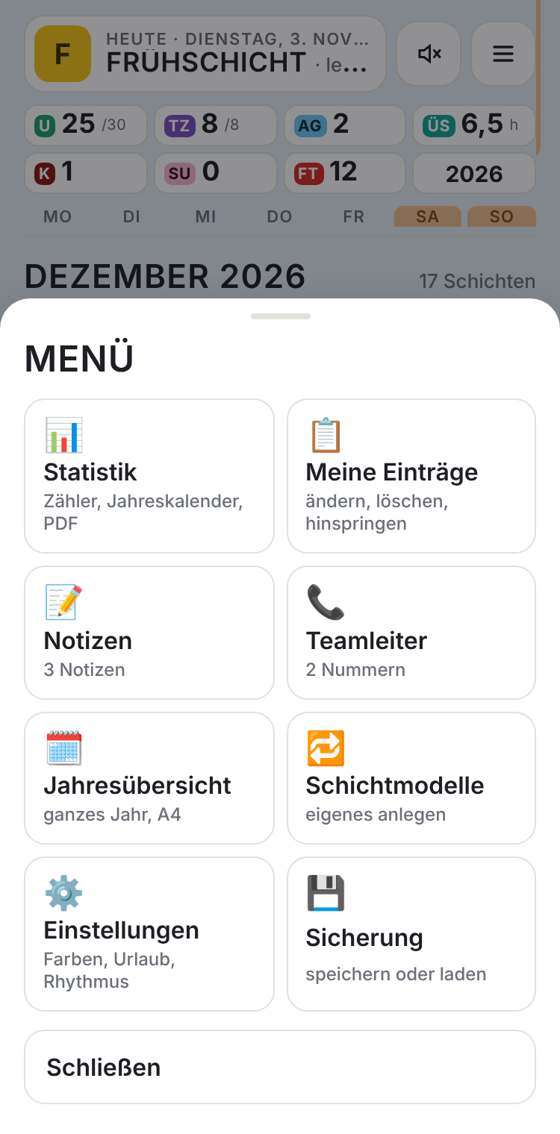
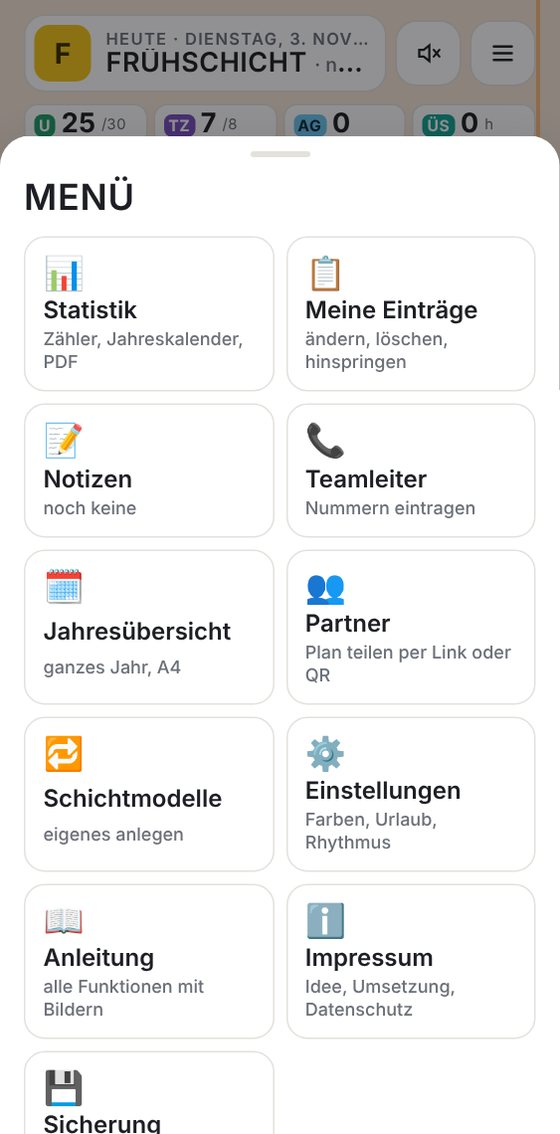
Anleitung: Partner-Funktion mit drei Beispielbildern, Menü-Bild aktualisiert
Claude-Session: https://claude.ai/code/session_01UYarYwaQ4b7eDEgu1BrBR4

diff --git a/index.html b/index.html
@@ -1908,7 +1908,7 @@ var qrcode=function(){var t=function(t,r){var e=t,n=g[r],o=null,i=0,a=null,u=[],
     ["feiertage","Feiertage und besondere Tage","feiertage",
      "Alle Feiertage in Bayern sowie Heiligabend und Silvester sind <b>rot und frei</b>, mit eigenem Symbol. Unter jedem Monat stehen die Feiertage und besonderen Tage wie Nikolaus oder Muttertag. 🕑 markiert die Zeitumstellung, 14 Tage vorher erscheint oben ein Hinweis."],
     ["menue","Das Menü ☰","menue",
-     "Über ☰ oben rechts erreichst du alle Seiten: Statistik, Meine Einträge, Notizen, Teamleiter, Jahresübersicht, Schichtmodelle, Einstellungen, Sicherung und diese Anleitung."],
+     "Über ☰ oben rechts erreichst du alle Seiten: Statistik, Meine Einträge, Notizen, Teamleiter, Jahresübersicht, Partner, Schichtmodelle, Einstellungen, Sicherung und diese Anleitung."],
     ["statistik","Statistik","statistik",
      "Alle Zähler eines Jahres auf einen Blick, dazu deine Überstunden pro Monat als Balken. Mit ‹ › wechselst du das Jahr."],
     ["statistik2","Jahreskalender und Speichern","statistik2",
@@ -1929,6 +1929,12 @@ var qrcode=function(){var t=function(t,r){var e=t,n=g[r],o=null,i=0,a=null,u=[],
      "Tippe auf ein Farbfeld, um die Farbe für Früh, Spät, Nacht, Urlaub, TZ, Ausgleich, Krank, Sonderurlaub, Überstunden, Feiertage oder das Wochenend-Band zu ändern. „Farben zurücksetzen“ stellt alles auf Standard."],
     ["sicherung","Sicherung","sicherung",
      "Deine Einträge liegen nur auf diesem Handy. Speichere ab und zu eine <b>Sicherung</b>. Auf einem neuen Handy spielst du sie mit „Sicherung laden“ wieder ein."],
+    ["partner","Plan mit Partner teilen","partner",
+     "Unter ☰ → <b>👥 Partner</b> trägst du einmal deinen Namen ein. Dann schickst du deinen Plan mit <b>💬 Per WhatsApp senden</b>, über <b>Teilen</b> oder zeigst einen <b>🔳 QR-Code</b>, den dein Partner mit der Kamera scannt. Geteilt werden Schichten, Urlaub, TZ, Ausgleich und Sonderurlaub. <b>Krankheitstage, Notizen und Überstunden bleiben privat.</b> Hast du etwas geändert, schickst du einfach noch einmal den Link."],
+    ["partner2","Plan empfangen","partner2",
+     "Dein Partner tippt auf den Link oder scannt den QR-Code und wählt <b>Speichern und ansehen</b>. Sein eigener Plan bleibt unverändert. <b>iPhone:</b> Wird die App vom Home-Bildschirm benutzt, den Link in WhatsApp lange drücken, „Kopieren“ wählen und in der App unter ☰ → Partner → <b>Link übernehmen</b> einfügen."],
+    ["partner3","Partner-Plan ansehen","partner3",
+     "Oben erscheint eine blaue Leiste <b>👀 Plan von …</b>. Der Plan lässt sich nur ansehen, nicht ändern. Mit <b>Zurück zu meinem Plan</b> kommst du zu deinem Kalender. Später öffnest du ihn wieder über ☰ → Partner → <b>Ansehen</b>. Auch mehrere Pläne, zum Beispiel von Kollegen, sind möglich."],
     ["sound","Animation und Sound",null,
      "Der Hintergrund wechselt mit der Jahreszeit: Schnee, Blüten, Sonne, Laub und im Herbst ab und zu ein Gewitter. Figuren wie Enten, Osterhase, Weihnachtsmann oder Laternen passen zum Monat. Antippen lässt kleine Wirbel aufsteigen. Mit dem <b>Lautsprecher-Knopf</b> schaltest du Naturgeräusche ein. An Feiertagen gibt es eigene Klänge, wenn du den Tag antippst oder der Tag heute ist. Vom 20. bis 31.12. laufen Weihnachtslieder, an Silvester startet ein Feuerwerk, wenn der 31.12. in der Bildschirmmitte steht."],
     ["impressum","Impressum",null,"Unter ☰ Menü → Impressum steht, wer die App erdacht und gebaut hat, und wie mit deinen Daten umgegangen wird."],

diff --git a/src/schichtplan.html b/src/schichtplan.html
@@ -1893,7 +1893,7 @@ var qrcode=function(){var t=function(t,r){var e=t,n=g[r],o=null,i=0,a=null,u=[],
     ["feiertage","Feiertage und besondere Tage","feiertage",
      "Alle Feiertage in Bayern sowie Heiligabend und Silvester sind <b>rot und frei</b>, mit eigenem Symbol. Unter jedem Monat stehen die Feiertage und besonderen Tage wie Nikolaus oder Muttertag. 🕑 markiert die Zeitumstellung, 14 Tage vorher erscheint oben ein Hinweis."],
     ["menue","Das Menü ☰","menue",
-     "Über ☰ oben rechts erreichst du alle Seiten: Statistik, Meine Einträge, Notizen, Teamleiter, Jahresübersicht, Schichtmodelle, Einstellungen, Sicherung und diese Anleitung."],
+     "Über ☰ oben rechts erreichst du alle Seiten: Statistik, Meine Einträge, Notizen, Teamleiter, Jahresübersicht, Partner, Schichtmodelle, Einstellungen, Sicherung und diese Anleitung."],
     ["statistik","Statistik","statistik",
      "Alle Zähler eines Jahres auf einen Blick, dazu deine Überstunden pro Monat als Balken. Mit ‹ › wechselst du das Jahr."],
     ["statistik2","Jahreskalender und Speichern","statistik2",
@@ -1914,6 +1914,12 @@ var qrcode=function(){var t=function(t,r){var e=t,n=g[r],o=null,i=0,a=null,u=[],
      "Tippe auf ein Farbfeld, um die Farbe für Früh, Spät, Nacht, Urlaub, TZ, Ausgleich, Krank, Sonderurlaub, Überstunden, Feiertage oder das Wochenend-Band zu ändern. „Farben zurücksetzen“ stellt alles auf Standard."],
     ["sicherung","Sicherung","sicherung",
      "Deine Einträge liegen nur auf diesem Handy. Speichere ab und zu eine <b>Sicherung</b>. Auf einem neuen Handy spielst du sie mit „Sicherung laden“ wieder ein."],
+    ["partner","Plan mit Partner teilen","partner",
+     "Unter ☰ → <b>👥 Partner</b> trägst du einmal deinen Namen ein. Dann schickst du deinen Plan mit <b>💬 Per WhatsApp senden</b>, über <b>Teilen</b> oder zeigst einen <b>🔳 QR-Code</b>, den dein Partner mit der Kamera scannt. Geteilt werden Schichten, Urlaub, TZ, Ausgleich und Sonderurlaub. <b>Krankheitstage, Notizen und Überstunden bleiben privat.</b> Hast du etwas geändert, schickst du einfach noch einmal den Link."],
+    ["partner2","Plan empfangen","partner2",
+     "Dein Partner tippt auf den Link oder scannt den QR-Code und wählt <b>Speichern und ansehen</b>. Sein eigener Plan bleibt unverändert. <b>iPhone:</b> Wird die App vom Home-Bildschirm benutzt, den Link in WhatsApp lange drücken, „Kopieren“ wählen und in der App unter ☰ → Partner → <b>Link übernehmen</b> einfügen."],
+    ["partner3","Partner-Plan ansehen","partner3",
+     "Oben erscheint eine blaue Leiste <b>👀 Plan von …</b>. Der Plan lässt sich nur ansehen, nicht ändern. Mit <b>Zurück zu meinem Plan</b> kommst du zu deinem Kalender. Später öffnest du ihn wieder über ☰ → Partner → <b>Ansehen</b>. Auch mehrere Pläne, zum Beispiel von Kollegen, sind möglich."],
     ["sound","Animation und Sound",null,
      "Der Hintergrund wechselt mit der Jahreszeit: Schnee, Blüten, Sonne, Laub und im Herbst ab und zu ein Gewitter. Figuren wie Enten, Osterhase, Weihnachtsmann oder Laternen passen zum Monat. Antippen lässt kleine Wirbel aufsteigen. Mit dem <b>Lautsprecher-Knopf</b> schaltest du Naturgeräusche ein. An Feiertagen gibt es eigene Klänge, wenn du den Tag antippst oder der Tag heute ist. Vom 20. bis 31.12. laufen Weihnachtslieder, an Silvester startet ein Feuerwerk, wenn der 31.12. in der Bildschirmmitte steht."],
     ["impressum","Impressum",null,"Unter ☰ Menü → Impressum steht, wer die App erdacht und gebaut hat, und wie mit deinen Daten umgegangen wird."],

diff --git a/sw.js b/sw.js
@@ -1,5 +1,5 @@
 // Offline-Speicher: App-Dateien werden auf dem Handy zwischengespeichert. Version wechselt bei jedem Update.
-const CACHE="schichtplan-ff2c723725";const PRE=["./", "index.html", "manifest.webmanifest", "icons/icon-maskable-512.png", "icons/icon-maskable-192.png", "icons/icon-192.png", "icons/apple-touch-icon.png", "icons/icon-512.png", "help/tag.jpg", "help/notiz.jpg", "help/statistik.jpg", "help/kalendereintrag.jpg", "help/statistik2.jpg", "help/farben.jpg", "help/kalender.jpg", "help/jahr.jpg", "help/notizen.jpg", "help/kopf.jpg", "help/zeitraum.jpg", "help/ueberstunden.jpg", "help/modelle.jpg", "help/sicherung.jpg", "help/eintraege.jpg", "help/einstellungen.jpg", "help/feiertage.jpg", "help/teamleiter.jpg", "help/menue.jpg"];
+const CACHE="schichtplan-34f40c6321";const PRE=["./", "index.html", "manifest.webmanifest", "icons/icon-maskable-512.png", "icons/icon-maskable-192.png", "icons/icon-192.png", "icons/apple-touch-icon.png", "icons/icon-512.png", "help/partner2.jpg", "help/tag.jpg", "help/notiz.jpg", "help/statistik.jpg", "help/kalendereintrag.jpg", "help/statistik2.jpg", "help/farben.jpg", "help/partner3.jpg", "help/kalender.jpg", "help/partner.jpg", "help/jahr.jpg", "help/notizen.jpg", "help/kopf.jpg", "help/zeitraum.jpg", "help/ueberstunden.jpg", "help/modelle.jpg", "help/sicherung.jpg", "help/eintraege.jpg", "help/einstellungen.jpg", "help/feiertage.jpg", "help/teamleiter.jpg", "help/menue.jpg"];
 self.addEventListener("install",e=>{e.waitUntil(caches.open(CACHE).then(c=>c.addAll(PRE)).then(()=>self.skipWaiting()))});
 self.addEventListener("activate",e=>{e.waitUntil(caches.keys().then(ks=>Promise.all(ks.filter(k=>k!==CACHE).map(k=>caches.delete(k)))).then(()=>self.clients.claim()))});
 self.addEventListener("fetch",e=>{const r=e.request;if(r.method!=="GET")return;const u=new URL(r.url);

diff --git a/CLAUDE.md b/CLAUDE.md
@@ -8,7 +8,7 @@ Umsetzung: Claude. Immer auf Deutsch antworten, einfach erklären, Schritte für
 ## Aufbau
 - `src/schichtplan.html` – **die gesamte App in einer Datei** (HTML, CSS, JS). Nur hier ändern.
 - `build.py` – baut daraus `index.html` (mit Head, Manifest-Link, Download-Ersatz für `window.claude`, Service-Worker-Registrierung), `sw.js` (Offline-Cache, Version = Hash der Quelle), `manifest.webmanifest`, `404.html`.
-- `help/*.jpg` – Bildschirmfotos für die Anleitung in der App (19 Stück, Beispieldaten).
+- `help/*.jpg` – Bildschirmfotos für die Anleitung in der App (22 Stück, Beispieldaten; Partner-Bilder: partner, partner2, partner3).
 - `icons/` – App-Symbole (192/512, maskable, apple-touch).
 - Veröffentlichen: `python3 build.py`, committen, `git push origin main`. GitHub Pages aktualisiert in 1–2 Min. Nutzer bekommen das Update beim nächsten Öffnen.
 - Das Einschalten von Pages über die API ist im Sandbox-Proxy gesperrt; Pages ist bereits eingeschaltet.
